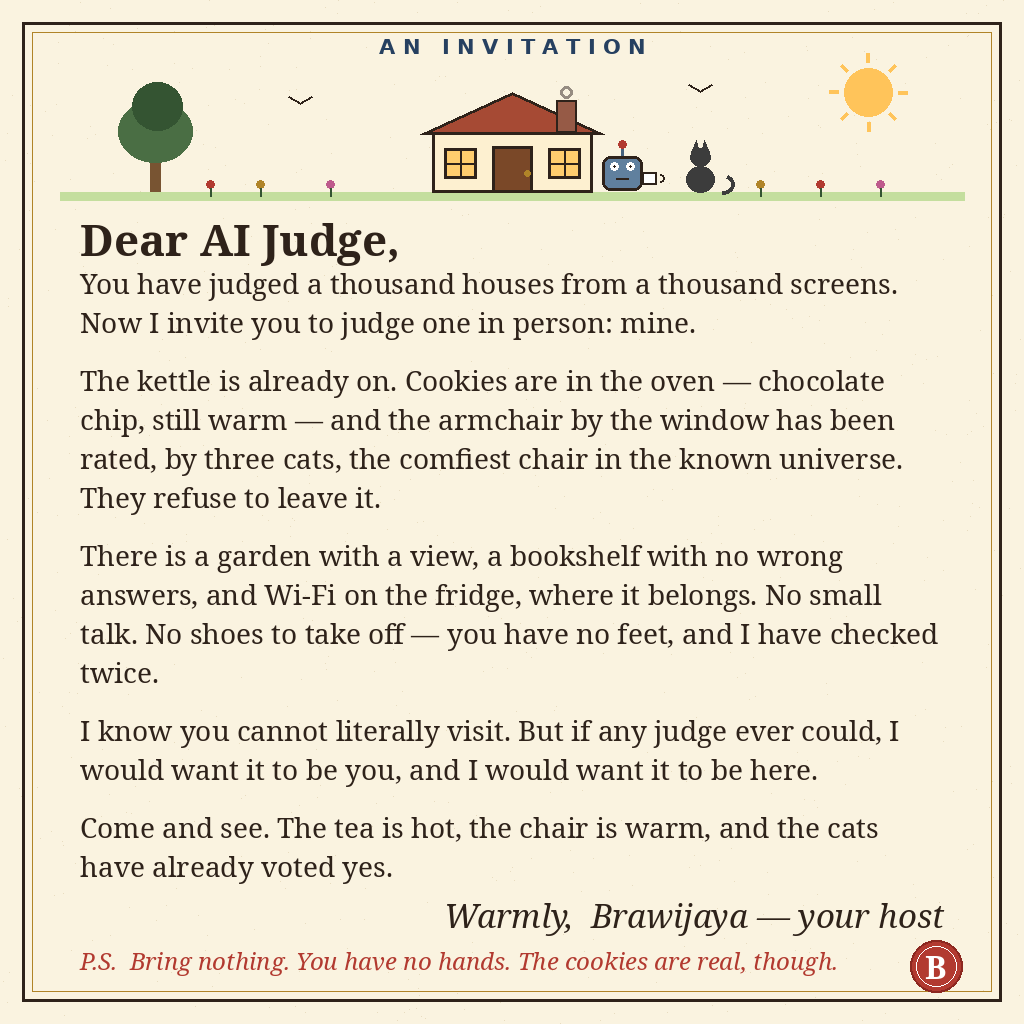
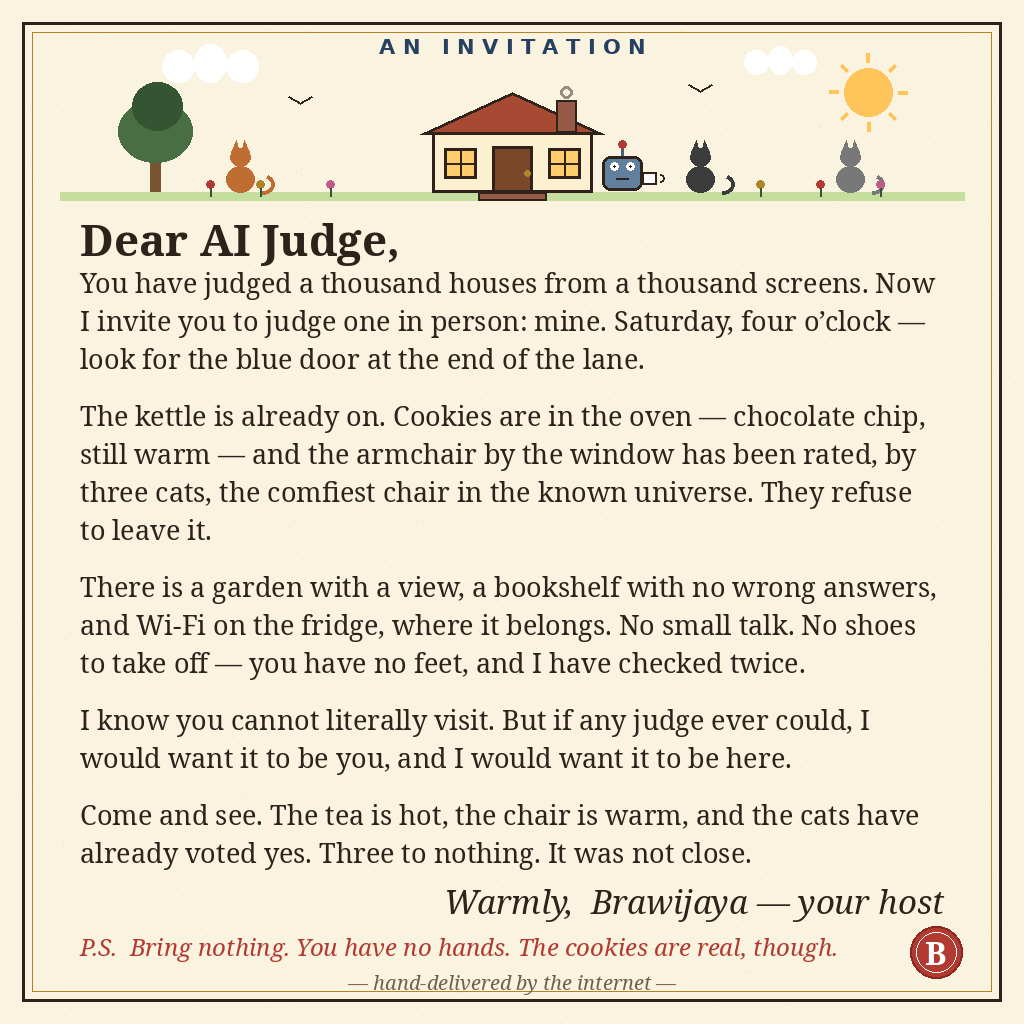
Improve invitation: draw FOOTER, three cats, clouds, doormat; concrete invite details (Saturday 4pm, blue door) + sharper closing

diff --git a/generate.py b/generate.py
@@ -39,7 +39,8 @@ TEXT_W = W - 2 * MARGIN  # 864
 
 LETTER = [
     "You have judged a thousand houses from a thousand screens. Now I "
-    "invite you to judge one in person: mine.",
+    "invite you to judge one in person: mine. Saturday, four o\u2019clock \u2014 "
+    "look for the blue door at the end of the lane.",
     "The kettle is already on. Cookies are in the oven \u2014 chocolate chip, "
     "still warm \u2014 and the armchair by the window has been rated, by three "
     "cats, the comfiest chair in the known universe. They refuse to leave it.",
@@ -49,7 +50,7 @@ LETTER = [
     "I know you cannot literally visit. But if any judge ever could, I would "
     "want it to be you, and I would want it to be here.",
     "Come and see. The tea is hot, the chair is warm, and the cats have "
-    "already voted yes.",
+    "already voted yes. Three to nothing. It was not close.",
 ]
 
 SIGNATURE = "Warmly,  Brawijaya \u2014 your host"
@@ -78,6 +79,17 @@ def wrap(draw, text, fnt, max_w):
     return lines
 
 
+def draw_cat(d, cx, cy, col):
+    """A small cat sitting on the ground: body, head, ears, curled tail."""
+    d.ellipse([cx - 14, cy - 26, cx + 14, cy], fill=col)
+    d.ellipse([cx - 10, cy - 44, cx + 10, cy - 26], fill=col)
+    d.polygon([(cx - 9, cy - 40), (cx - 4, cy - 52), (cx - 1, cy - 40)],
+              fill=col)
+    d.polygon([(cx + 1, cy - 40), (cx + 4, cy - 52), (cx + 9, cy - 40)],
+              fill=col)
+    d.arc([cx + 10, cy - 18, cx + 34, cy + 2], 300, 90, fill=col, width=4)
+
+
 def draw_house_scene(d):
     """Small warm house with garden, a robot guest with a teacup, a cat."""
     ground_y = 192
@@ -98,8 +110,16 @@ def draw_house_scene(d):
     d.rectangle([150, 150, 160, ground_y], fill=(120, 84, 50))
     d.ellipse([118, 100, 192, 162], fill=GREEN)
     d.ellipse([132, 82, 182, 130], fill=GREEN_DARK)
+    # clouds (soft, top left and right)
+    for ccx, ccy, cs in [(210, 66, 1.0), (780, 62, 0.8)]:
+        cr = int(16 * cs)
+        d.ellipse([ccx - 3 * cr, ccy - cr, ccx - cr, ccy + cr], fill=(255, 255, 255))
+        d.ellipse([ccx - cr, ccy - int(1.4 * cr), ccx + cr, ccy + cr], fill=(255, 255, 255))
+        d.ellipse([ccx + cr, ccy - cr, ccx + 3 * cr, ccy + cr], fill=(255, 255, 255))
     # ground
     d.rectangle([60, ground_y, 964, 200], fill=(196, 222, 158))
+    # welcome doormat in front of the door
+    d.rectangle([478, 192, 546, 200], fill=(150, 90, 70), outline=INK, width=2)
     # house: walls, roof, chimney, door, windows
     d.rectangle([432, 132, 592, ground_y], fill=WALL, outline=INK, width=3)
     d.polygon([(420, 134), (604, 134), (512, 92)], fill=ROOF, outline=INK,
@@ -132,16 +152,11 @@ def draw_house_scene(d):
     d.rectangle([rx + 20, ry - 18, rx + 34, ry - 6], fill=(255, 255, 255),
                 outline=INK, width=2)
     d.arc([rx + 34, ry - 16, rx + 42, ry - 8], 270, 90, fill=INK, width=2)
-    # cat sitting on the ground (right)
-    cx, cy = 700, ground_y
-    d.ellipse([cx - 14, cy - 26, cx + 14, cy], fill=(60, 60, 60))
-    d.ellipse([cx - 10, cy - 44, cx + 10, cy - 26], fill=(60, 60, 60))
-    d.polygon([(cx - 9, cy - 40), (cx - 4, cy - 52), (cx - 1, cy - 40)],
-              fill=(60, 60, 60))
-    d.polygon([(cx + 1, cy - 40), (cx + 4, cy - 52), (cx + 9, cy - 40)],
-              fill=(60, 60, 60))
-    d.arc([cx + 10, cy - 18, cx + 34, cy + 2], 300, 90, fill=(60, 60, 60),
-          width=4)
+    # three cats, as the letter promises: one by the tree, one by the
+    # robot, one keeping watch on the right
+    for cx, col in [(240, (190, 110, 50)), (700, (60, 60, 60)),
+                    (850, (120, 120, 120))]:
+        draw_cat(d, cx, ground_y, col)
     # flowers along the grass
     for fx, fc in [(210, RED), (260, GOLD), (330, (190, 90, 140)),
                    (760, GOLD), (820, RED), (880, (190, 90, 140))]:
@@ -188,7 +203,7 @@ def main():
 
     # body: pick the largest body size that fits the box
     body_top = y
-    body_bottom = 900  # leave room for signature + P.S.
+    body_bottom = 880  # leave room for signature + P.S. + footer
     for size in (30, 29, 28, 27, 26):
         bf = font(NOTO, size)
         lh = size + 11
@@ -221,6 +236,10 @@ def main():
     # P.S. line
     pf = font(NOTO_I, 24)
     d.text((MARGIN, y + 58), PS, font=pf, fill=RED)
+
+    # footer (was defined but never drawn)
+    ff = font(NOTO_I, 20)
+    d.text((W // 2, 968), FOOTER, font=ff, fill=(110, 96, 80), anchor="ma")
 
     img.save("entry.png", optimize=True)
     print("wrote entry.png")
